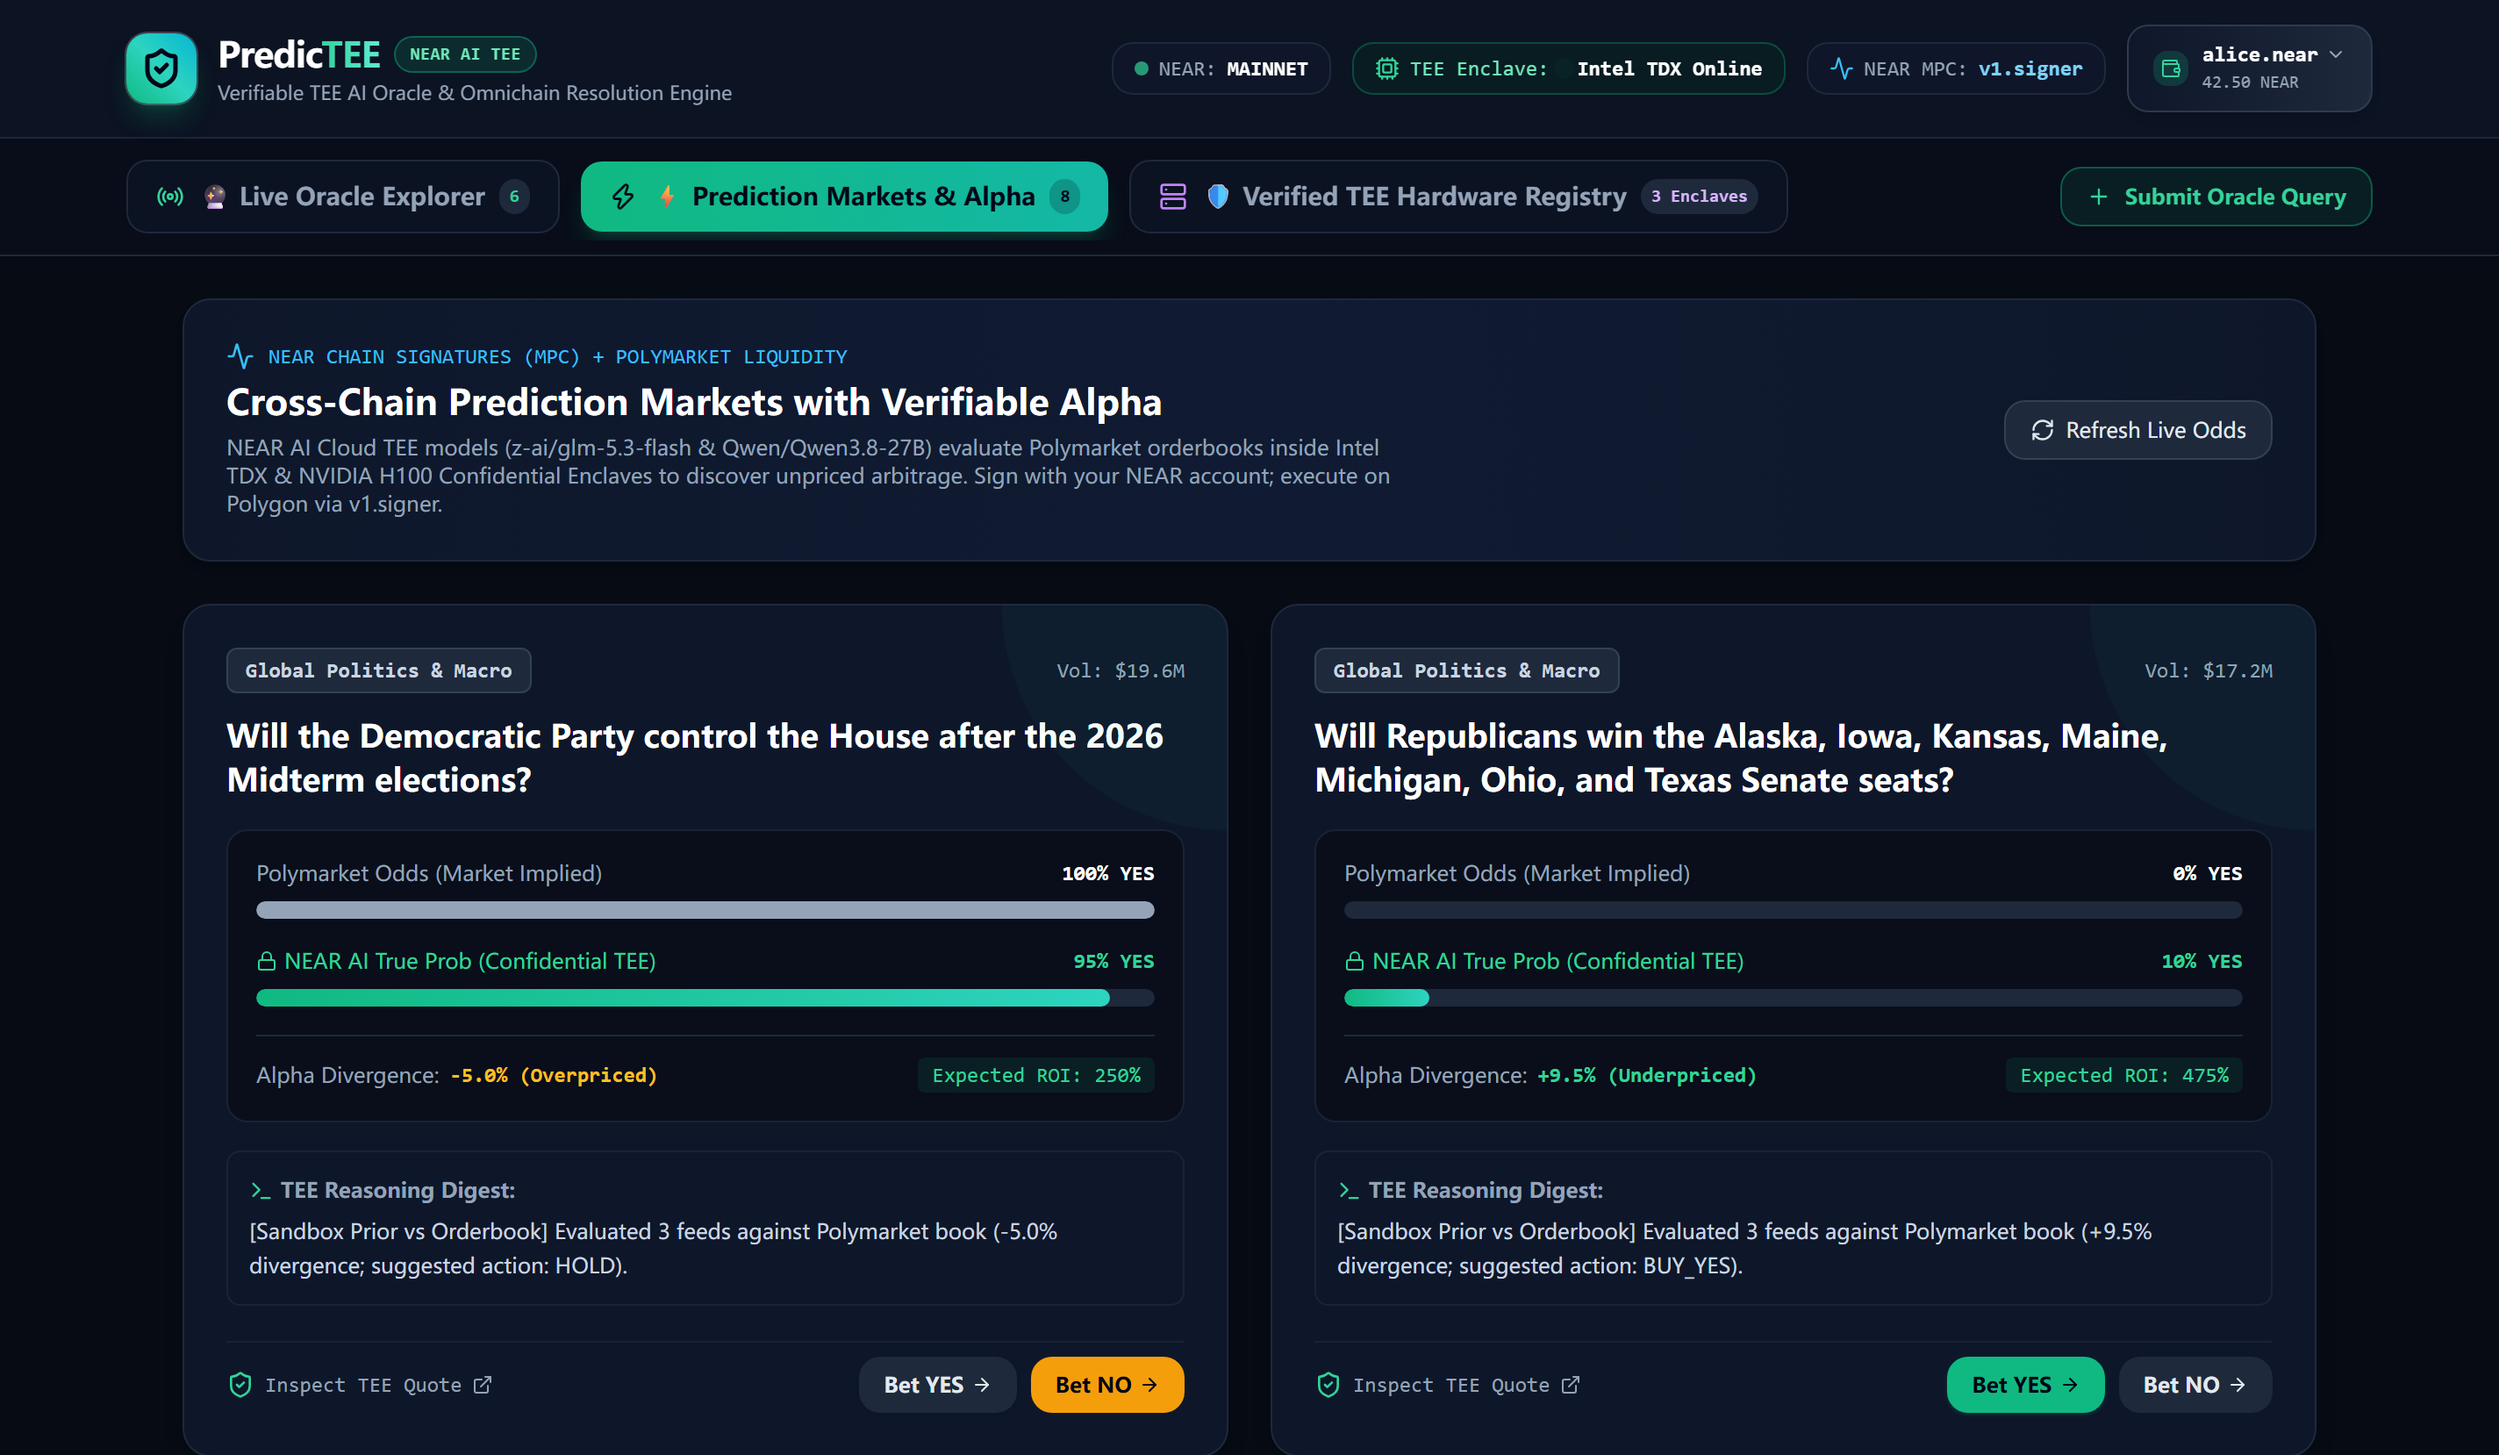
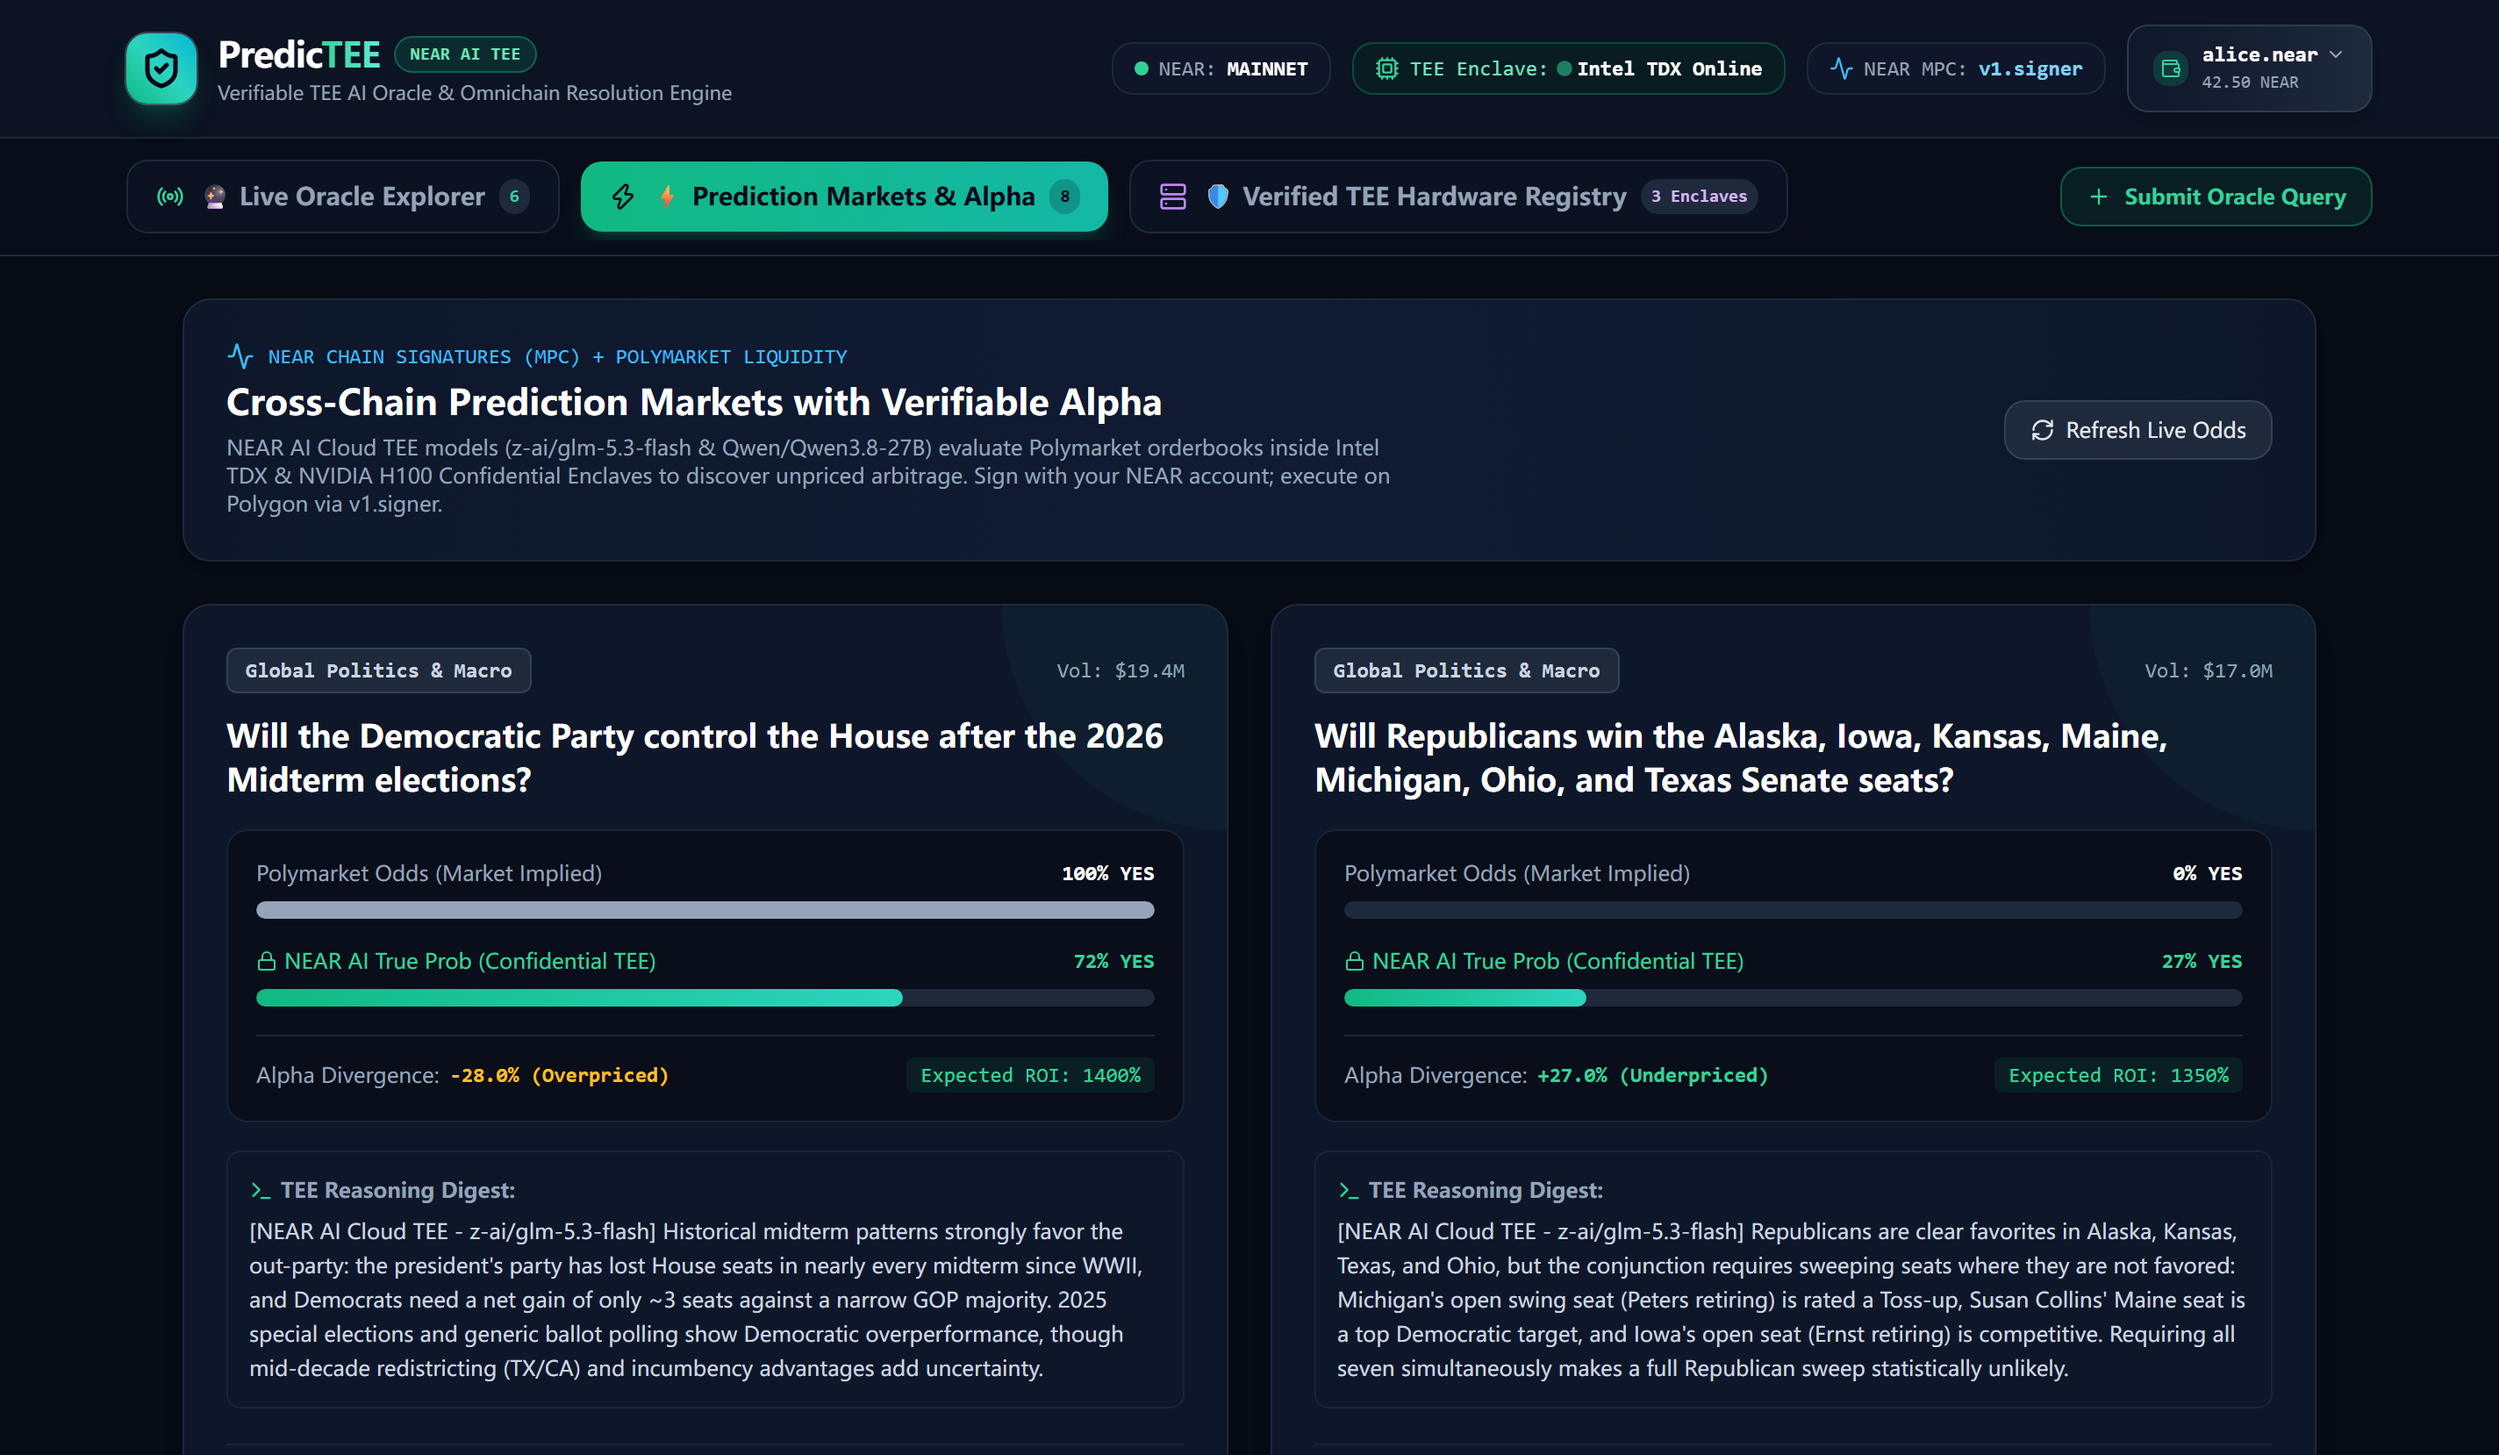
feat(tee): enable live NEAR AI Cloud TEE on Polymarket Alpha tab and document .env setup

diff --git a/packages/agent/tee_engine.py b/packages/agent/tee_engine.py
@@ -131,6 +131,7 @@ class TEEMarketEngine:
         self.near_ai_model = os.getenv("NEAR_AI_MODEL", "z-ai/glm-5.3-flash").strip()
         self._cached_live_attestation: Optional[Dict[str, Any]] = None
         self._cached_attestation_ts: float = 0.0
+        self._live_ai_cache: Dict[str, Dict[str, Any]] = {}
 
     def configure_ai_provider(
         self,
@@ -478,6 +479,9 @@ class TEEMarketEngine:
         safe_base_url = validate_near_ai_base_url(self.near_ai_base_url)
         safe_query = sanitize_oracle_input(query, max_len=MAX_QUERY_LEN)
         safe_category = sanitize_oracle_input(category, max_len=MAX_CATEGORY_LEN)
+        cache_key = f"{self.near_ai_model}:{safe_category}:{safe_query}"
+        if cache_key in self._live_ai_cache:
+            return self._live_ai_cache[cache_key]
         live_facts = self._fetch_live_context_facts(safe_query, safe_category)
         system_prompt = (
             "You are PredicTEE, a neutral, verifiable AI Oracle running inside a Confidential TEE Enclave on NEAR AI Cloud. "
@@ -519,7 +523,7 @@ class TEEMarketEngine:
                     {"role": "user", "content": user_content}
                 ],
                 "temperature": 0,
-                "max_tokens": 900,
+                "max_tokens": 1400,
                 "stream": False
             }
             body_json = json.dumps(payload)
@@ -584,13 +588,15 @@ class TEEMarketEngine:
                     else:
                         outcome = "INVALID"
                     conf_bps = max(6000, min(9900, int(parsed["confidence_bps"])))
-                    return {
+                    result_obj = {
                         "outcome": outcome,
                         "confidence_bps": conf_bps,
                         "rationale": f"[NEAR AI Cloud TEE - {model_to_use}] " + str(parsed.get("rationale", "")),
                         "evidence_sources": parsed.get("evidence_sources", []),
                         "live_signature_data": sig_data
                     }
+                    self._live_ai_cache[cache_key] = result_obj
+                    return result_obj
         except Exception as e:
             print(f"[NEAR AI Cloud TEE] Notice: {e}, using deterministic sandbox fallback.")
         return None

diff --git a/packages/agent/agent.py b/packages/agent/agent.py
@@ -1012,8 +1012,9 @@ def list_markets():
     """Returns live Polymarket events enriched with TEE confidential AI evaluations."""
     raw_markets = fetch_live_polymarket_events()
     enriched = []
-    for m in raw_markets:
-        analysis = tee_engine.evaluate_market(m)
+    has_live_key = bool(tee_engine.near_ai_api_key) and (os.getenv("PREDICTEE_TEST_MODE") != "1")
+    for idx, m in enumerate(raw_markets):
+        analysis = tee_engine.evaluate_market(m, use_live_ai=(has_live_key and idx < 2))
         enriched.append({
             **m,
             "ai_analysis": analysis
@@ -1029,7 +1030,8 @@ def get_market(market_id: str):
     if not market:
         raise HTTPException(status_code=404, detail="Market not found")
 
-    analysis = tee_engine.evaluate_market(market)
+    has_live_key = bool(tee_engine.near_ai_api_key) and (os.getenv("PREDICTEE_TEST_MODE") != "1")
+    analysis = tee_engine.evaluate_market(market, use_live_ai=has_live_key)
     return {
         "market": market,
         "ai_analysis": analysis
@@ -1068,7 +1070,7 @@ def reset_oracle_demo_state():
     so judges can repeatedly test Step 4 (`req-3` PENDING -> RESOLVED) cleanly.
     """
     with STATE_LOCK:
-        if os.path.exists(STATE_FILE_PATH):
+        if os.getenv("PREDICTEE_TEST_MODE") != "1" and os.path.exists(STATE_FILE_PATH):
             try:
                 os.remove(STATE_FILE_PATH)
             except OSError:

diff --git a/README.md b/README.md
@@ -28,13 +28,20 @@
 
 Judges and automated evaluation agents (**Claude Code** & **Codex**) can verify every layer of PredicTEE out of the box **without needing a secret API key**:
 
-### Step 0: Prerequisites & Dependency Installation
+### Step 0: Prerequisites, Dependency Installation & Optional `NEAR_AI_API_KEY` Setup
 - **Prerequisites:** Node.js 18+ and Python 3.10+
-- **Do:**
+- **Do (Install Dependencies):**
   ```bash
   npm install
   pip install -r packages/agent/requirements.txt
   ```
+- **Do (Optional — Enable Live Authenticated NEAR AI Cloud TEE Inference & Signing):**
+  ```bash
+  cp packages/agent/.env.example packages/agent/.env
+  # Edit packages/agent/.env and set:
+  # NEAR_AI_API_KEY=sk-... (from https://cloud.near.ai or https://nearbuilders.org/dashboard)
+  ```
+  *(You can also paste your `NEAR_AI_API_KEY` at runtime in the web dashboard by clicking the top-right **"🔑 Configure NEAR AI Key"** badge, or via `POST /api/config/ai-key`. If no key is set, PredicTEE still performs **100% live keyless hardware attestation** against `cloud-api.near.ai/v1/attestation/report` and uses a clearly labeled deterministic sandbox fallback for chat completions.)*
 - **See:** Installs `@noble/curves`, `@noble/hashes`, `near-sdk-js`, `dcap-qvl` (Intel DCAP quote verifier), `py_ecc` (`secp256k1`), `eth-account`, and `fastapi`.
 
 ### Step 1: Verify Live NEAR AI Cloud TEE Hardware Attestation (Keyless)
